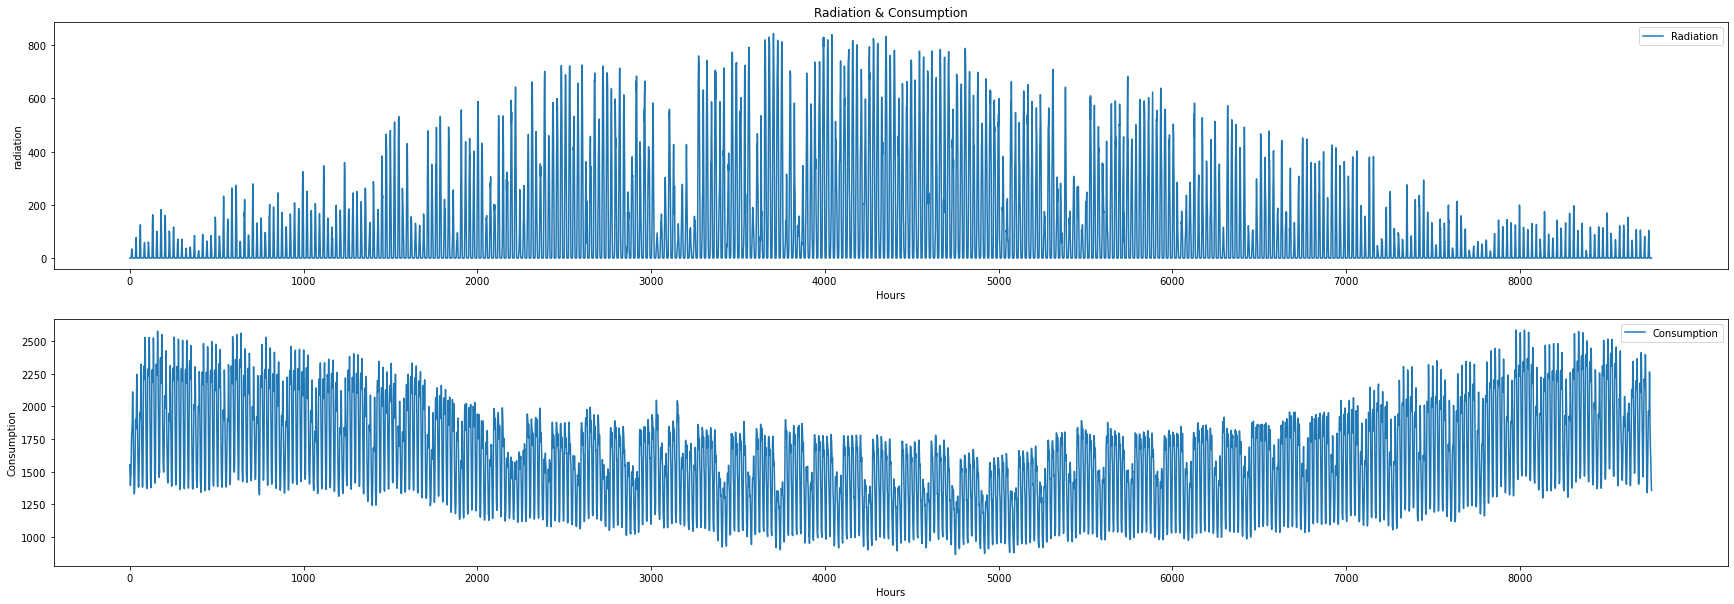
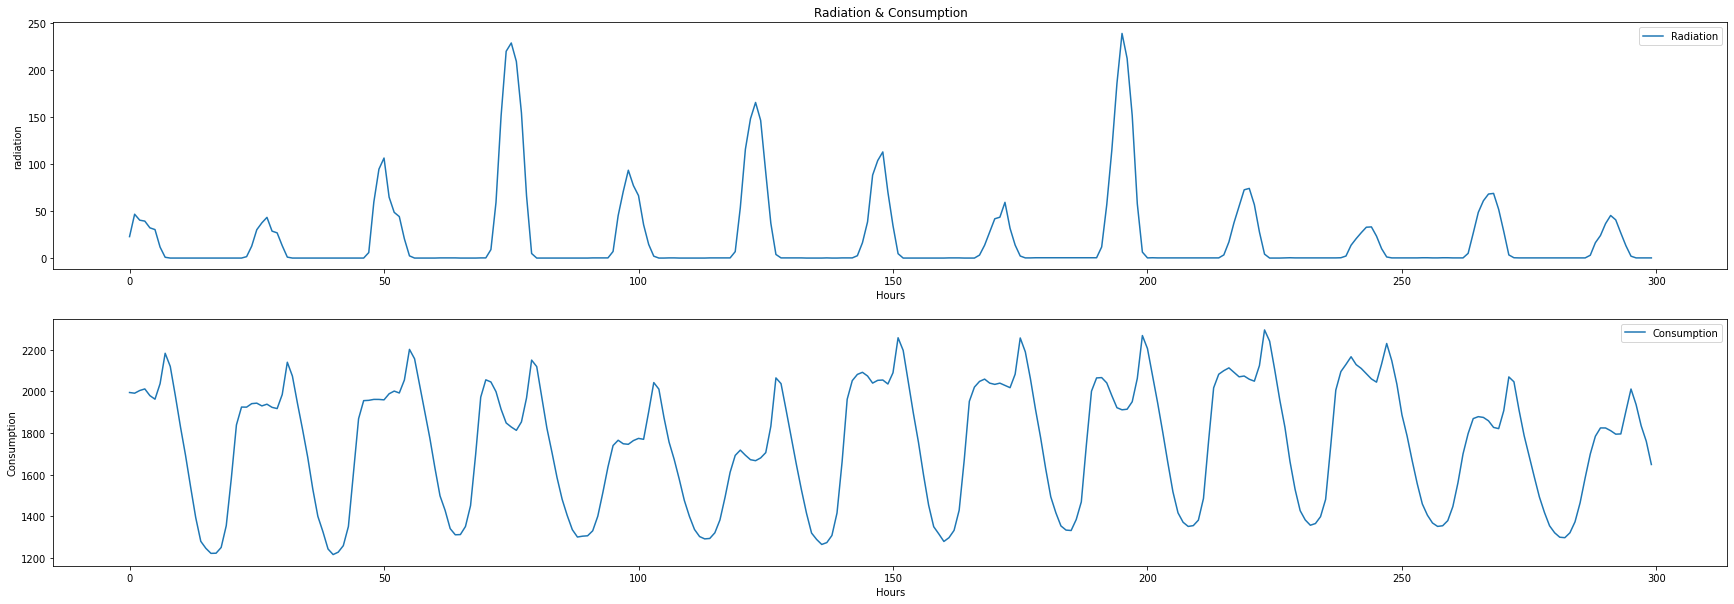
nye shap værdier

diff --git a/Scripts/Data_exploration.py b/Scripts/Data_exploration.py
@@ -11,7 +11,7 @@ import seaborn as sns
 # changing the path to the datafolder
 home_path = r'C:\Users\oeste\OneDrive\Uni\Speciale\Scripts\Data\stations_data_dk2'
 energinet_path = r'C:\Users\MTG.ENERGINET\OneDrive - Energinet.dk\Dokumenter\Speciale\Scripts\Data\stations_data_dk2'
-os.chdir(energinet_path)
+os.chdir(home_path)
 
 temp_conc_data = pd.DataFrame(columns=['time'])
 radi_conc_data = pd.DataFrame(columns=['time'])
@@ -39,7 +39,7 @@ dk2_mean.head()
 old_home_path = r'C:\Users\oeste\OneDrive\Uni\Speciale\Scripts'
 old_energinet_path = r'C:\Users\MTG.ENERGINET\OneDrive - Energinet.dk\Dokumenter\Speciale\Scripts'
 
-os.chdir(old_energinet_path)
+os.chdir(old_home_path)
 df_DK1_2010_2015 = pd.read_pickle("data/dk1_data_2010_2015.pkl")
 df_DK2_2010_2015 = pd.read_pickle("data/dk2_data_2010_2015.pkl")
 df_DK1_2015_2020 = pd.read_pickle("data/dk1_data_2015_2020.pkl")
@@ -112,21 +112,21 @@ ax1.set_title("Temperature & Consumption")  # Add a title to the axes.
 """
 Plotting the Radiation and the consumption in two graphs next to eachother.
 """
-y1 = conc_data['radia_glob_past1h']
-y2 = conc_data['Con']
+y1 = conc_data['radia_glob_past1h'][79200:79500]
+y2 = conc_data['Con'][79200:79500]
 x = range(0,len(y1))
-x_tick = np.arange(0,hours_in_year,1000)
+#x_tick = np.arange(0,hours_in_year,1000)
 fig, (ax1,ax2) = plt.subplots(2,1,figsize=(30,10))
-ax1.plot(x[0:hours_in_year], y1[0:hours_in_year], label='Radiation')  # Plot some data on the axes.
+ax1.plot(x[0:len(y1)], y1[0:len(y1)], label='Radiation')  # Plot some data on the axes.
 ax1.set_xlabel('Hours')  # Add an x-label to the axes.
-ax1.set_xticks(x_tick)
+#ax1.set_xticks(x_tick)
 ax1.set_ylabel('radiation')  # Add a y-label to the axes.
 ax1.legend();  # Add a legend.
 
-ax2.plot(x[0:hours_in_year], y2[0:hours_in_year], label='Consumption')  # Plot more data on the axes...
+ax2.plot(x[0:len(y1)], y2[0:len(y1)], label='Consumption')  # Plot more data on the axes...
 ax2.set_xlabel('Hours')  # Add an x-label to the axes.
 ax2.set_ylabel('Consumption')  # Add a y-label to the axes.
-ax2.set_xticks(x_tick)
+#ax2.set_xticks(x_tick)
 ax2.legend();  # Add a legend.
 ax1.set_title("Radiation & Consumption")  # Add a title to the axes.
 
@@ -178,19 +178,23 @@ Plotting the temperature calculate as "graddage" and the consumption in two grap
 """
 y1 = conc_data['grad_dage']
 y2 = conc_data['Con']
+z = np.polyfit(y1, y2, 1)
+p = np.poly1d(z)
 x = range(0,len(y1))
-fig, (ax1,ax2) = plt.subplots(2,1,figsize=(30,10))
-ax1.plot(x[hours_in_year:hours_in_year*2], y1[hours_in_year*3:hours_in_year*4], label='Degree day')  # Plot some data on the axes.
-ax1.set_xlabel('Hours')  # Add an x-label to the axes.
-ax1.set_ylabel('Degree day')  # Add a y-label to the axes.
-ax1.legend();  # Add a legend.
-
-ax2.plot(x[hours_in_year:hours_in_year*2], y2[hours_in_year*3:hours_in_year*4], label='Consumption')  # Plot more data on the axes...
+fig, ax = plt.subplots(figsize=(20,20))
+ax.plot(y1,p(y1),"b")
+ax.scatter(y1[0:20000], y2[0:20000])  # Plot some data on the axes.
+ax.set_xlabel('Degree day')  # Add an x-label to the axes.
+ax.set_ylabel('Consumption')  # Add a y-label to the axes.
+ax.legend();  # Add a legend.
+plt.show()
+"""
+ax2.plot(x[0:len(y1)], y2[0:len(y1)], label='Consumption')  # Plot more data on the axes...
 ax2.set_xlabel('Hours')  # Add an x-label to the axes.
 ax2.set_ylabel('Consumption')  # Add a y-label to the axes.
 ax2.legend();  # Add a legend.
 ax1.set_title("Graddage vs consumption")  # Add a title to the axes.
-
+"""
 #%%
 """
 Plotting the day of the week and the consumption in two graphs next to eachother.
@@ -199,7 +203,7 @@ This is only for 1000 hours, else it is not possible to see anything
 y1 = conc_data['day']
 y2 = conc_data['Con']
 x = range(0,len(y1))
-fig, (ax1,ax2) = plt.subplots(2,1,figsize=(30,10))
+fig, (ax1,ax2) = plt.subplots(2,1,figsize=(20,10))
 ax1.plot(x[0:1000], y1[1000:2000], label='Day of the week')  # Plot some data on the axes.
 ax1.set_xlabel('Hours')  # Add an x-label to the axes.
 ax1.set_ylabel('Day of the week')  # Add a y-label to the axes.
